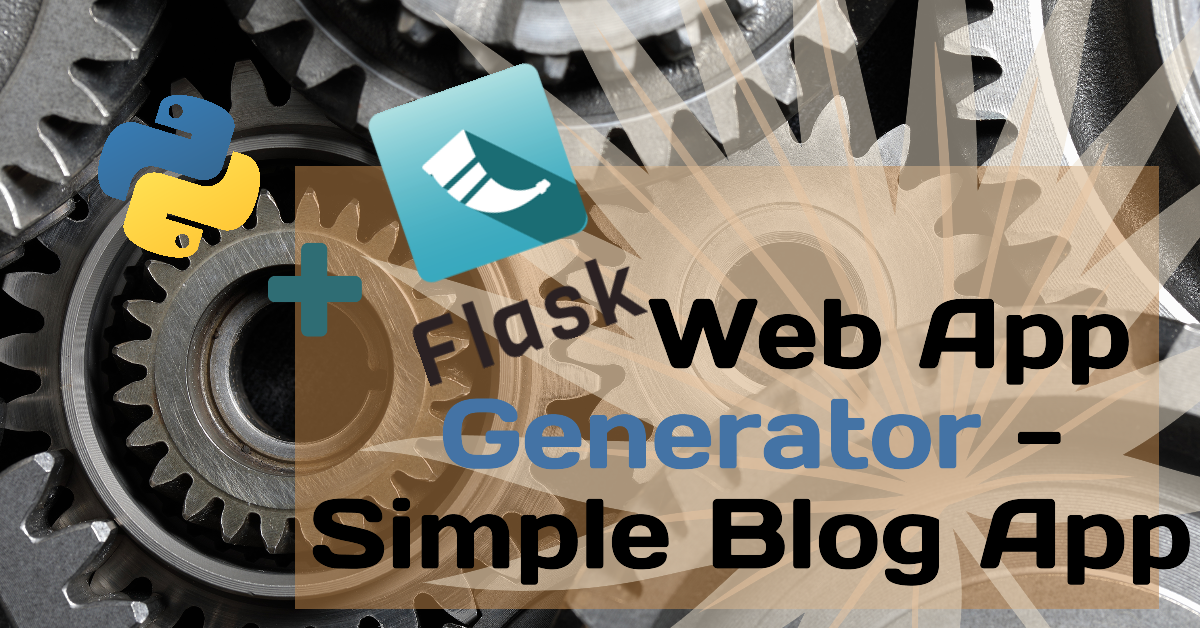
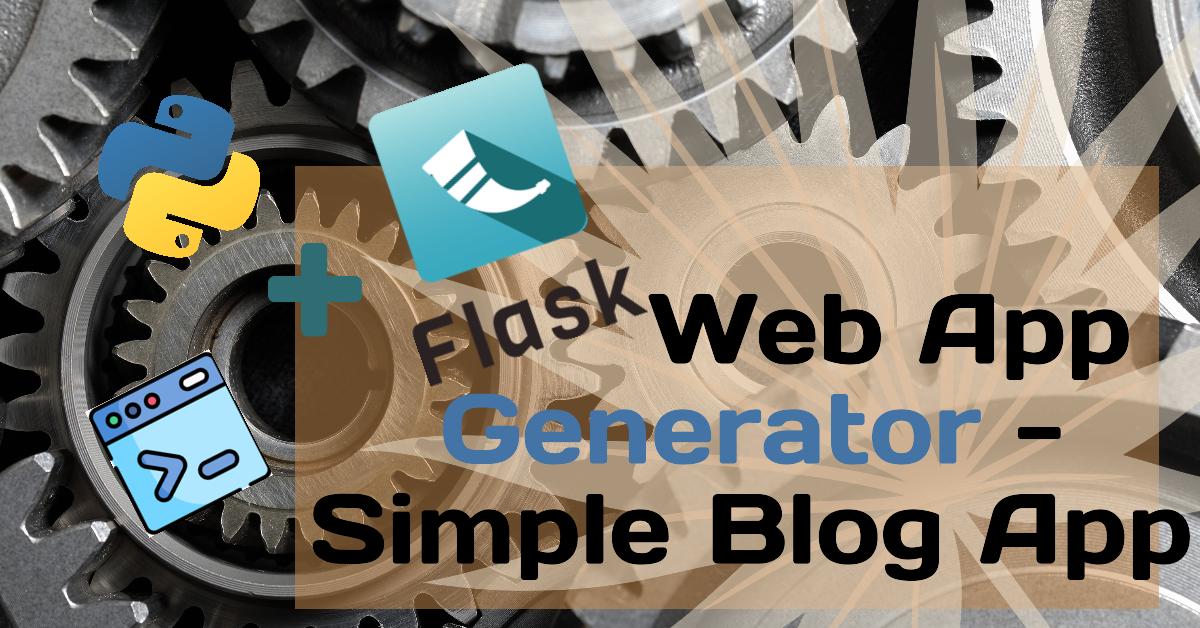
update note

diff --git a/my_argparse.py b/my_argparse.py
@@ -1,5 +1,6 @@
-import argparse
-import os, sys, re
+import argparse, os, sys, re
+
+# collection of files content to be insert into respective docs
 from MyVar import myclassvar
 
 from platform import python_version
@@ -13,9 +14,13 @@ parser.add_argument(dest='foldername', metavar='foldername', nargs='?', action='
 parser.add_argument('-a', '--app', metavar='app name', dest='progr', action='store', default='flask')
 
 args = parser.parse_args()
+
+# map respective parameter data into local var
 myfoldername = args.foldername
 mypath = args.path
+myapp = args.progr
 
+# Flask file structure filename and foldername
 toplistoffiles = ['LICENSE', 'README.md', 'config.py', ]
 sublistoffiles = ['__init__.py', 'routes.py', 'db.py', 'schema.sql']
 subfoldernames = ['templates', 'static']

diff --git a/README.md b/README.md
@@ -2,14 +2,32 @@
 
 ![my_intro](/images/web_app_generator.png)
 
-This article elaborate a step-by-step guide on creating a basic Flask web application using Python.  We'll cover everything from setting up your development environment to displaying your first webpage. Perfect for beginners, this guide requires no prior web development experience and will equip you with the foundational knowledge to start building your own Python web apps with Flask Web templates.
+Need quickly generate a Flask project within minute, and freedom of fully control and manage suitable Flask structure for your project requirements. 
+This Flask web app generator may what you looking for.
 
+Need a Flask project spun up fast?  Like, "I need it yesterday" fast?  Forget boilerplate headaches and wrestling with project structure.  This Flask web app generator might just be your new best friend.  Get up and running in minutes, and still have complete control. 
+Intrigued?  You should be. 
 
-simple blog page sample from [foundation][1]
+This article elaborate a step-by-step guide on creating a basic Flask web application using Python. We'll cover everything from setting up your development environment to running your first webpage. Perfect for beginners, this guide requires no prior web development experience and will equip you with the foundational knowledge to start building your own Python web apps with Flask Web templates.
+
+A Flask web app generator is a command-line tool with the goal to quickly bootstrap the creation of new Flask projects.  
+
+Instead of manually setting up the basic project structure, creating files, and installing core dependencies, a generator automates these repetitive tasks.  It typically provides a pre-configured template or skeleton project that includes:
+
+Basic file structure: This includes essential files like app.py (or __init__.py for larger projects), templates directories, static files directories (for CSS, JavaScript, images), and potentially a tests directory.
+
+Essential dependencies: The generator often pre-installs core Flask packages and other commonly used libraries, like those for database interaction, form handling, or user authentication.
+
+Configuration files: It might set up basic configuration files for database connections, secret keys, or other project-specific settings.
+Example code: A generator usually provides a simple "Hello, World" example or a more complex demo application to illustrate the basic functionality and structure.
+
+Project management tools: Some generators might integrate with project management tools or build systems, like pip for dependency management or pytest for testing.
+
+Using a Flask web app generator significantly speeds up the initial development process, allowing developers to focus on the core logic of their application rather than spending time on boilerplate setup.  It also promotes consistency across projects by providing a standardized starting point.  While generators are great for getting started quickly, it's still important to understand the underlying structure and configuration they create to effectively customize and extend your Flask applications.
 
 allow to create flask app with single script
-
 create necessary flask structure and basic files to get flask web app running
+simple blog page sample from [foundation][1]
 
 what this script can and cannot do
 
@@ -81,3 +99,8 @@ Additional Tips
 
 
 [1]: https://get.foundation/templates.html
+[2]: https://docs.python.org/3/library/argparse.html
+
+如何使用 Python 脚本创建 Flask 应用程序
+
+Bagaimana untuk membuat aplikasi kelalang dengan skrip python
